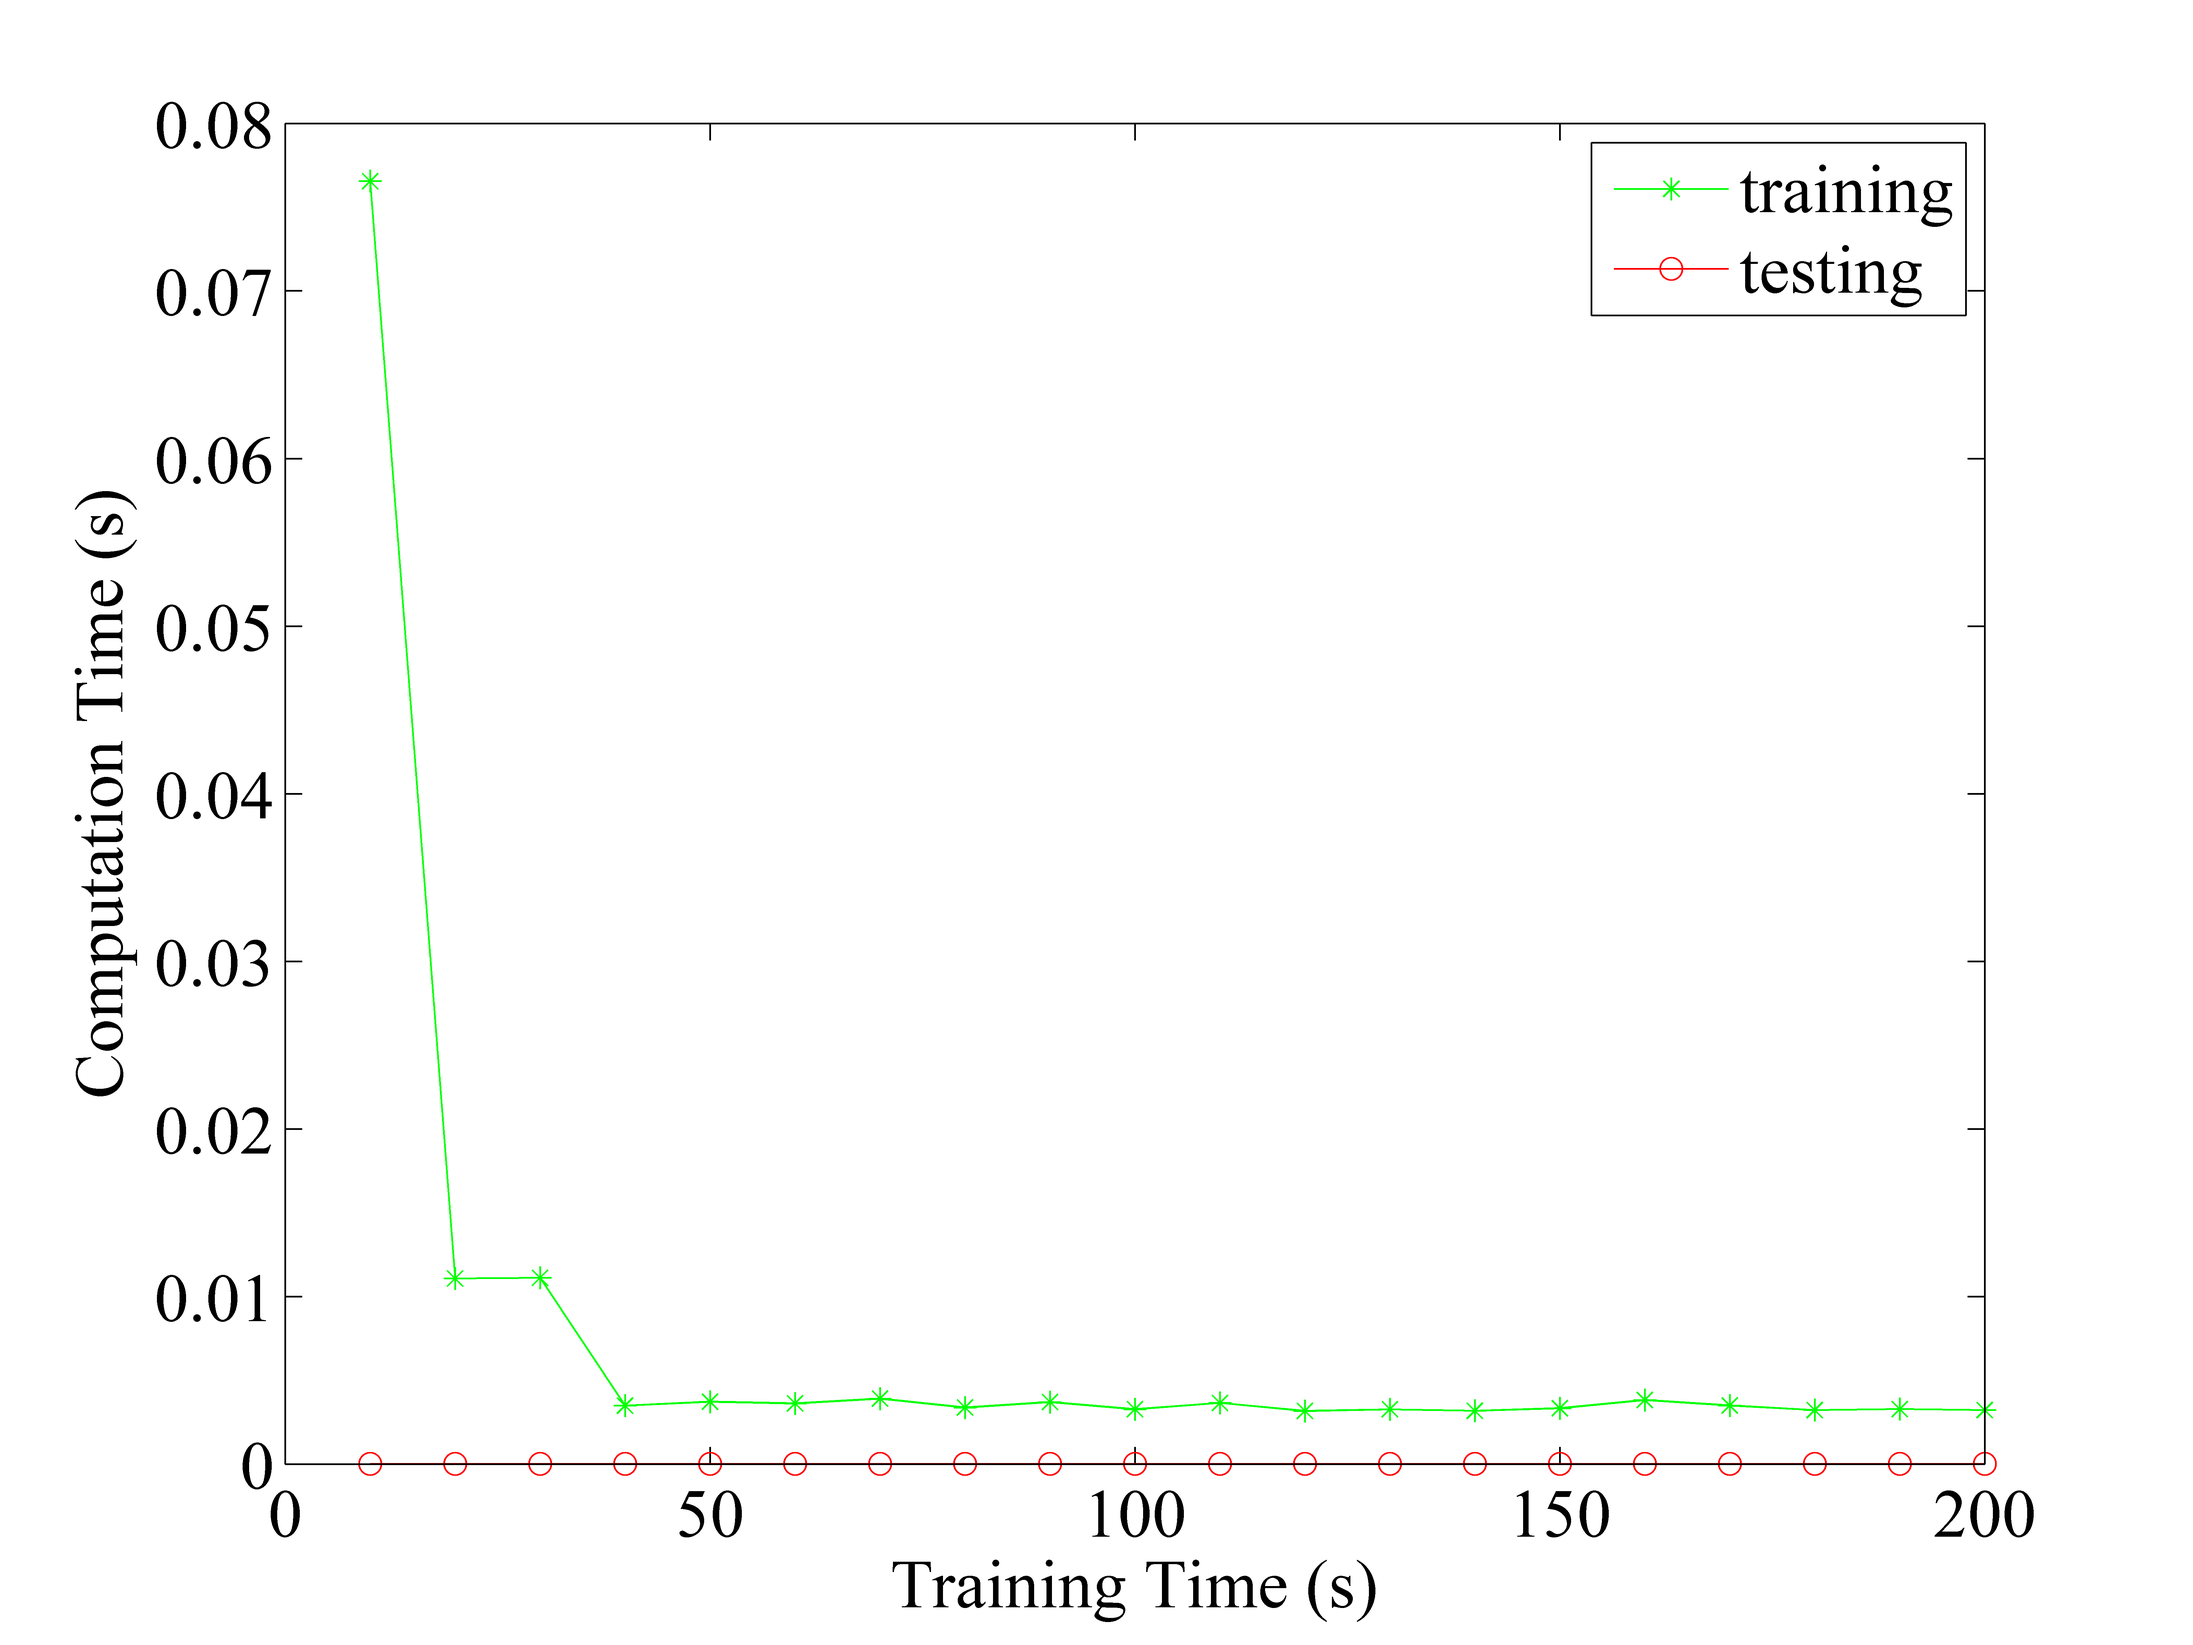
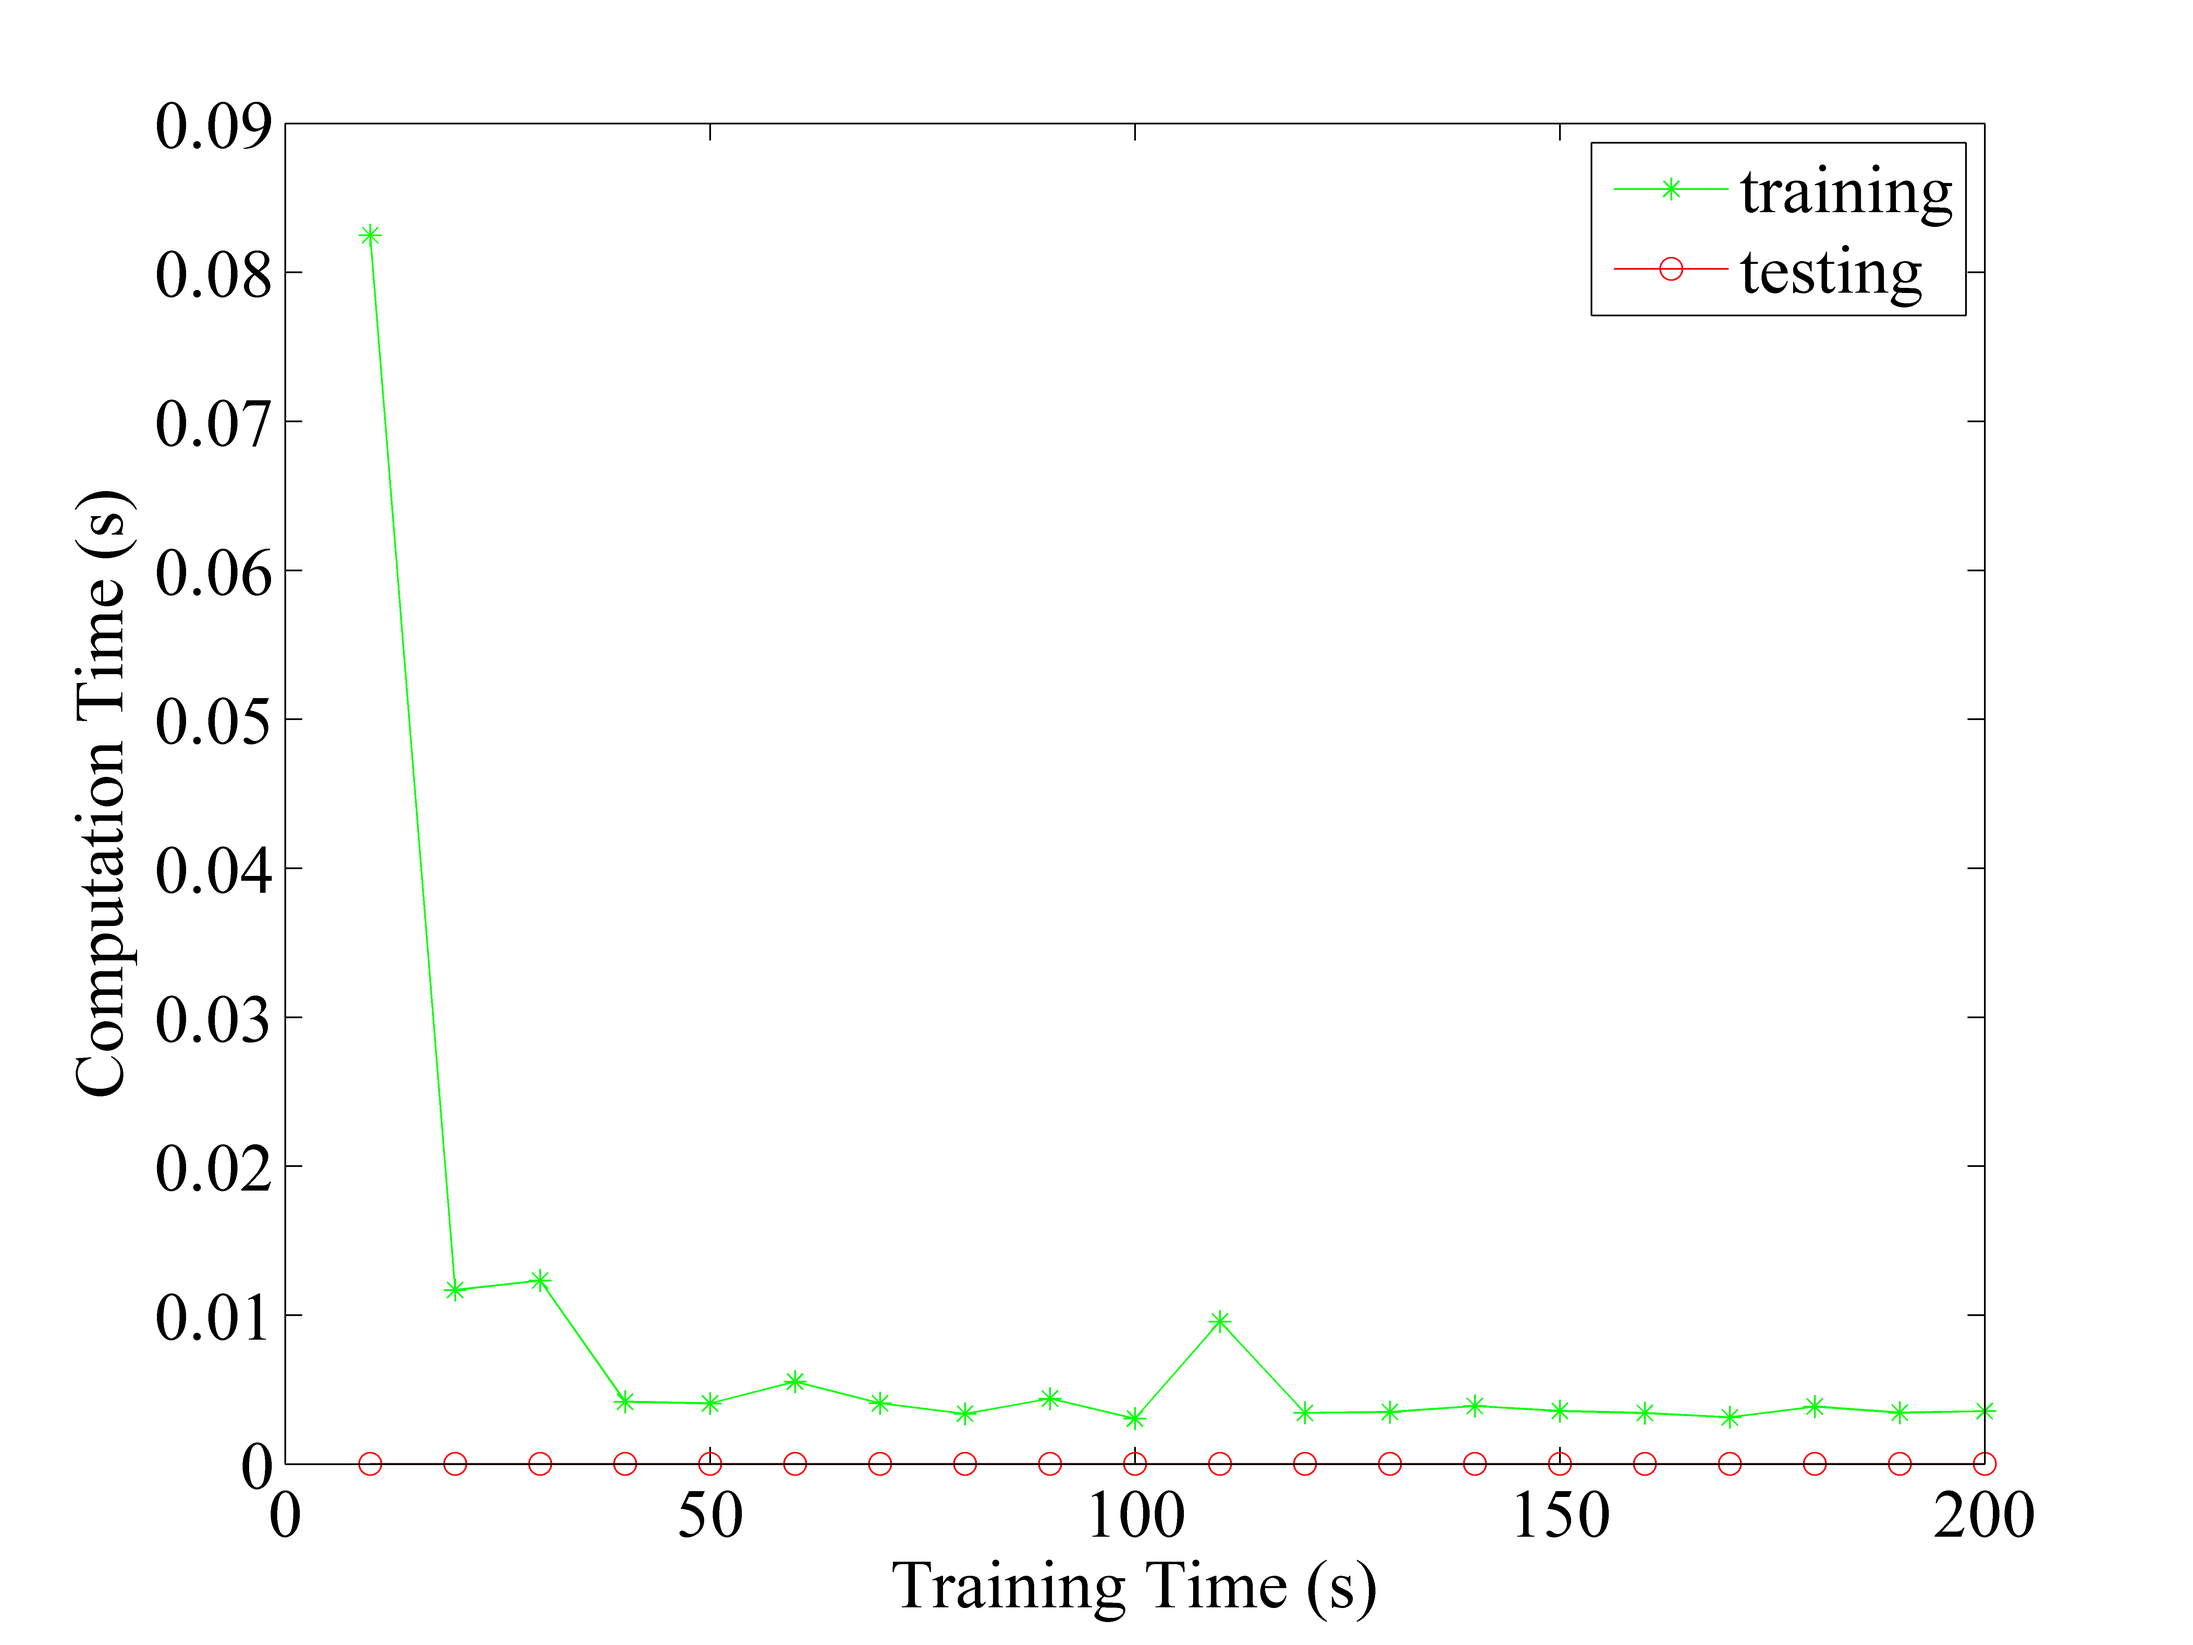
for the anomaly case
our method is very effective for detecting anomaly and predicting
response time

diff --git a/matlab/anomaly_case.m b/matlab/anomaly_case.m
@@ -1,0 +1,115 @@
+close all;
+clear all;
+clc;
+
+load('all02');
+load('QoE2202');
+TS=TS-mod(TS,1);
+[value,xindex]=intersect(metricsTime,TS);
+X=metrics(xindex,:);
+[yvalue, yindex]=intersect(TS, value);
+Y=responseTime(yindex);
+
+figure;
+plot(responseTime);
+set(gca, 'FontName', 'Times New Roman', 'FontSize', 18);
+ylabel('Response Time (s)');
+xlabel('Time (s)');
+figfile=sprintf('rt_withanomaly');
+print(figfile,'-dpng','-r800');
+
+
+trainTimes=70;
+for i=1:length(trainTimes)
+    t=trainTimes(i);
+    trainX=X(1:t,:);
+    trainY=Y(1:t);
+    tic;
+    B=LassoActiveSet(trainX,trainY,t);
+    tt(i)=toc;
+    trainEABS(i)=mean(trainX*B-trainY);
+    trainEREL(i)=mean((trainX*B-trainY)./trainY);
+    figure;
+    subplot(2,1,1);
+    plot(trainY-trainX*B, 'r-');
+    ylabel('training error');
+    xlabel('time');
+    % figfile=sprintf('trainerror');
+    % print(figfile,'-dpng','-r800');
+    subplot(2,1,2);
+    plot(trainY, 'g*-');hold on;
+    plot(trainX*B, 'bo-');
+    legend('real', 'estimated');
+    ylabel('response time');
+    xlabel('time');
+    figfile=sprintf('training_withanomaly');
+    print(figfile,'-dpng','-r800');
+    tic
+    testY=Y(t+1:end);
+    testX=X(t+1:end,:);
+    testEABS(i)=mean(testY-testX*B);
+    testEREL(i)=mean((testX*B-testY)./testY);
+    pt(i)=toc/(length(Y)-t);
+    
+    figure;
+    subplot(2,1,1);
+    plot(testY-testX*B, 'r-');
+    ylabel('testing error');
+    xlabel('time');
+    % figfile=sprintf('trainerror');
+    % print(figfile,'-dpng','-r800');
+    subplot(2,1,2);
+    plot(testY, 'g*-');hold on;
+    plot(testX*B, 'bo-');
+    legend('real', 'estimated');
+    ylabel('response time');
+    xlabel('time');
+    figfile=sprintf('testing_withanomaly');
+    print(figfile,'-dpng','-r800');
+end
+return;
+figure;
+plot(trainTimes, trainEABS, 'g*-'); hold on;
+plot(trainTimes, testEABS, 'ro-');
+set(gca, 'FontName', 'Times New Roman', 'FontSize', 18);
+legend('training', 'testing');
+ylabel('Absolute Error');
+xlabel('Training Time (s)');
+figfile=sprintf('absolute_error_withanomaly');
+print(figfile,'-dpng','-r800');
+
+figure;
+plot(trainTimes, trainEREL, 'g*-'); hold on;
+plot(trainTimes, testEREL, 'ro-');
+set(gca, 'FontName', 'Times New Roman', 'FontSize', 18);
+legend('training', 'testing');
+ylabel('Relative Error');
+xlabel('Training Time (s)');
+figfile=sprintf('absolute_error_withanomaly');
+print(figfile,'-dpng','-r800');
+
+figure;
+plot(trainTimes, tt, 'g*-'); hold on;
+plot(trainTimes, pt, 'ro-');
+set(gca, 'FontName', 'Times New Roman', 'FontSize', 18);
+legend('training', 'testing');
+ylabel('Computation Time (s)');
+xlabel('Training Time (s)');
+figfile=sprintf('computation_time_withanomaly');
+print(figfile,'-dpng','-r800');
+
+%     figure;
+%     plot(testY-testX*B, 'r-');
+%     ylabel('testing error');
+%     xlabel('time');
+%     % figfile=sprintf('error');
+%     % print(figfile,'-dpng','-r800');
+% 
+%     figure;
+%     plot(testY, 'g*-');hold on;
+%     plot(testX*B, 'bo-');
+%     legend('real', 'estimated');
+%     ylabel('response time');
+%     xlabel('time');
+%     % figfile=sprintf('compare');
+%     % print(figfile,'-dpng','-r800');

diff --git a/matlab/readClientData.m b/matlab/readClientData.m
@@ -3,7 +3,7 @@ close all;
 clc;
 format long;
 
-files=char('client-09_03012047');
+files=char('client-09_03012202');
 num=size(files, 1);
 for i=1:num
     name=files(i,:);
@@ -12,5 +12,5 @@ for i=1:num
     TS=dataAll(:,1);
     QoE1=dataAll(:,4);
     QoE2=dataAll(:,5);
-    save('QoE2047', 'responseTime', 'TS', 'QoE1','QoE2');
+    save('QoE2202', 'responseTime', 'TS', 'QoE1','QoE2');
 end

diff --git a/matlab/readmetrics.m b/matlab/readmetrics.m
@@ -2,7 +2,7 @@ clear all;
 close all;
 clc;
 
-files=char('all47');
+files=char('all02');
 num=size(files, 1);
 for i=1:num
     name=files(i,:);
